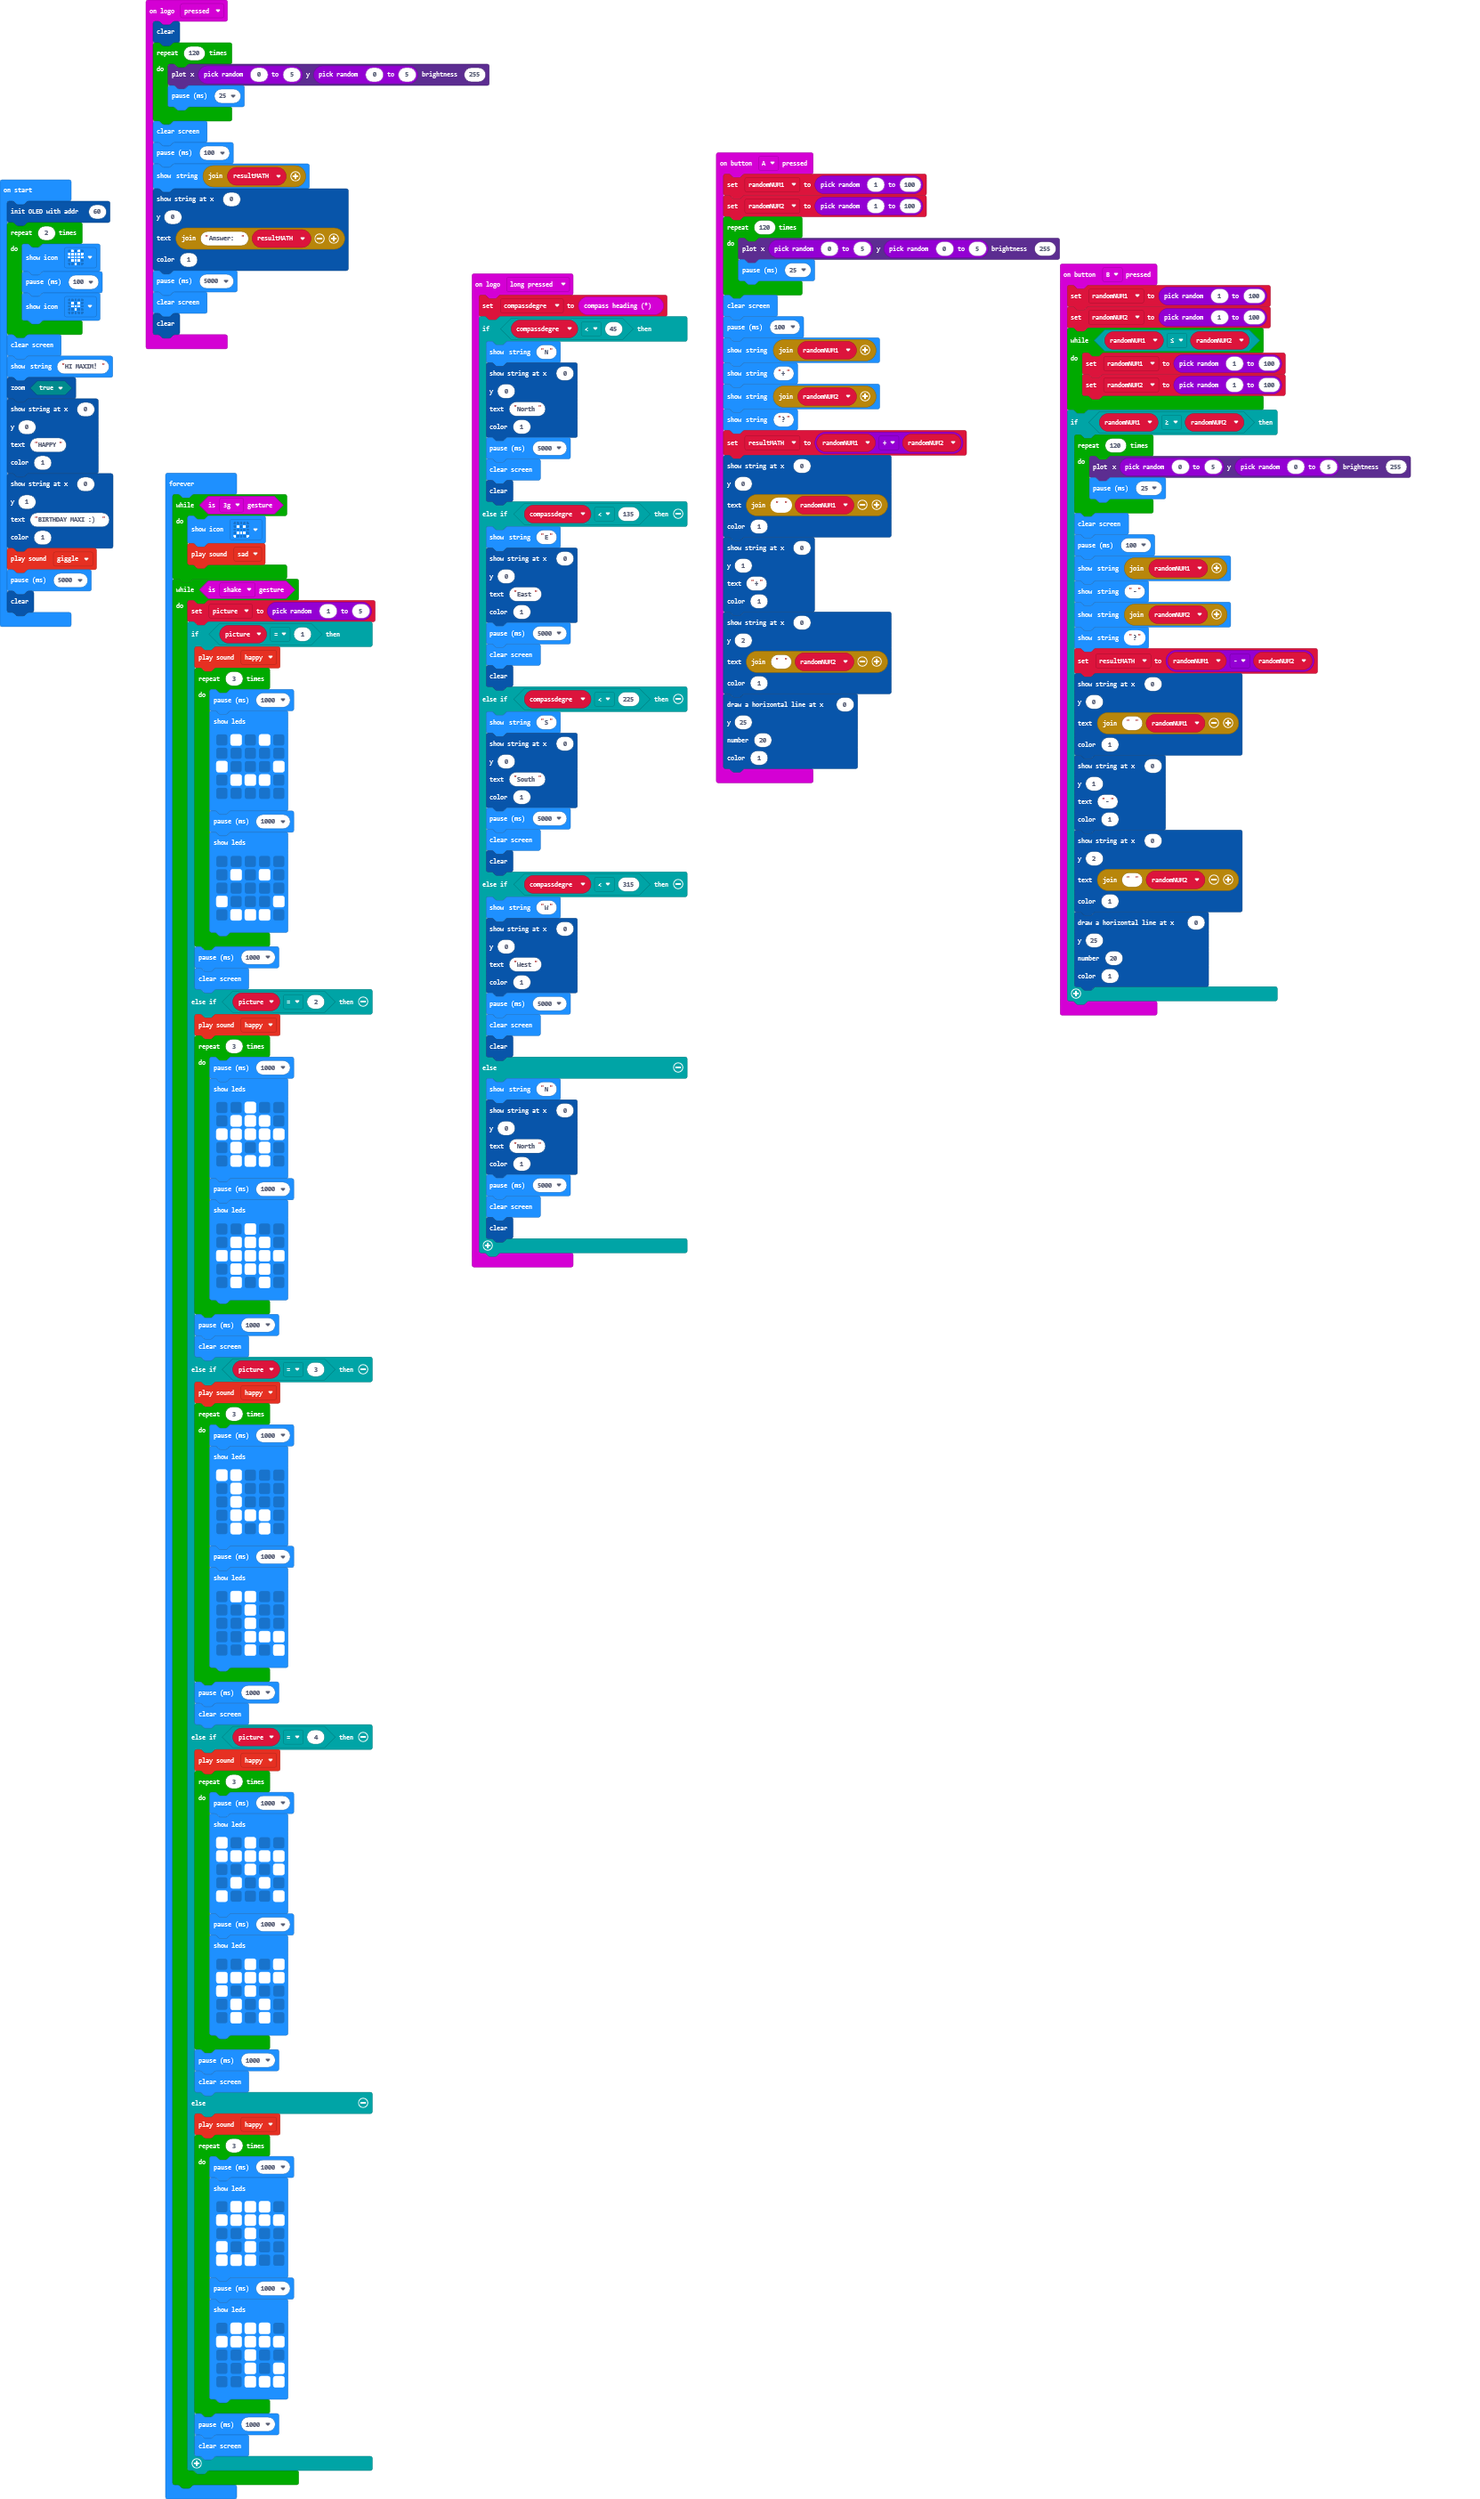
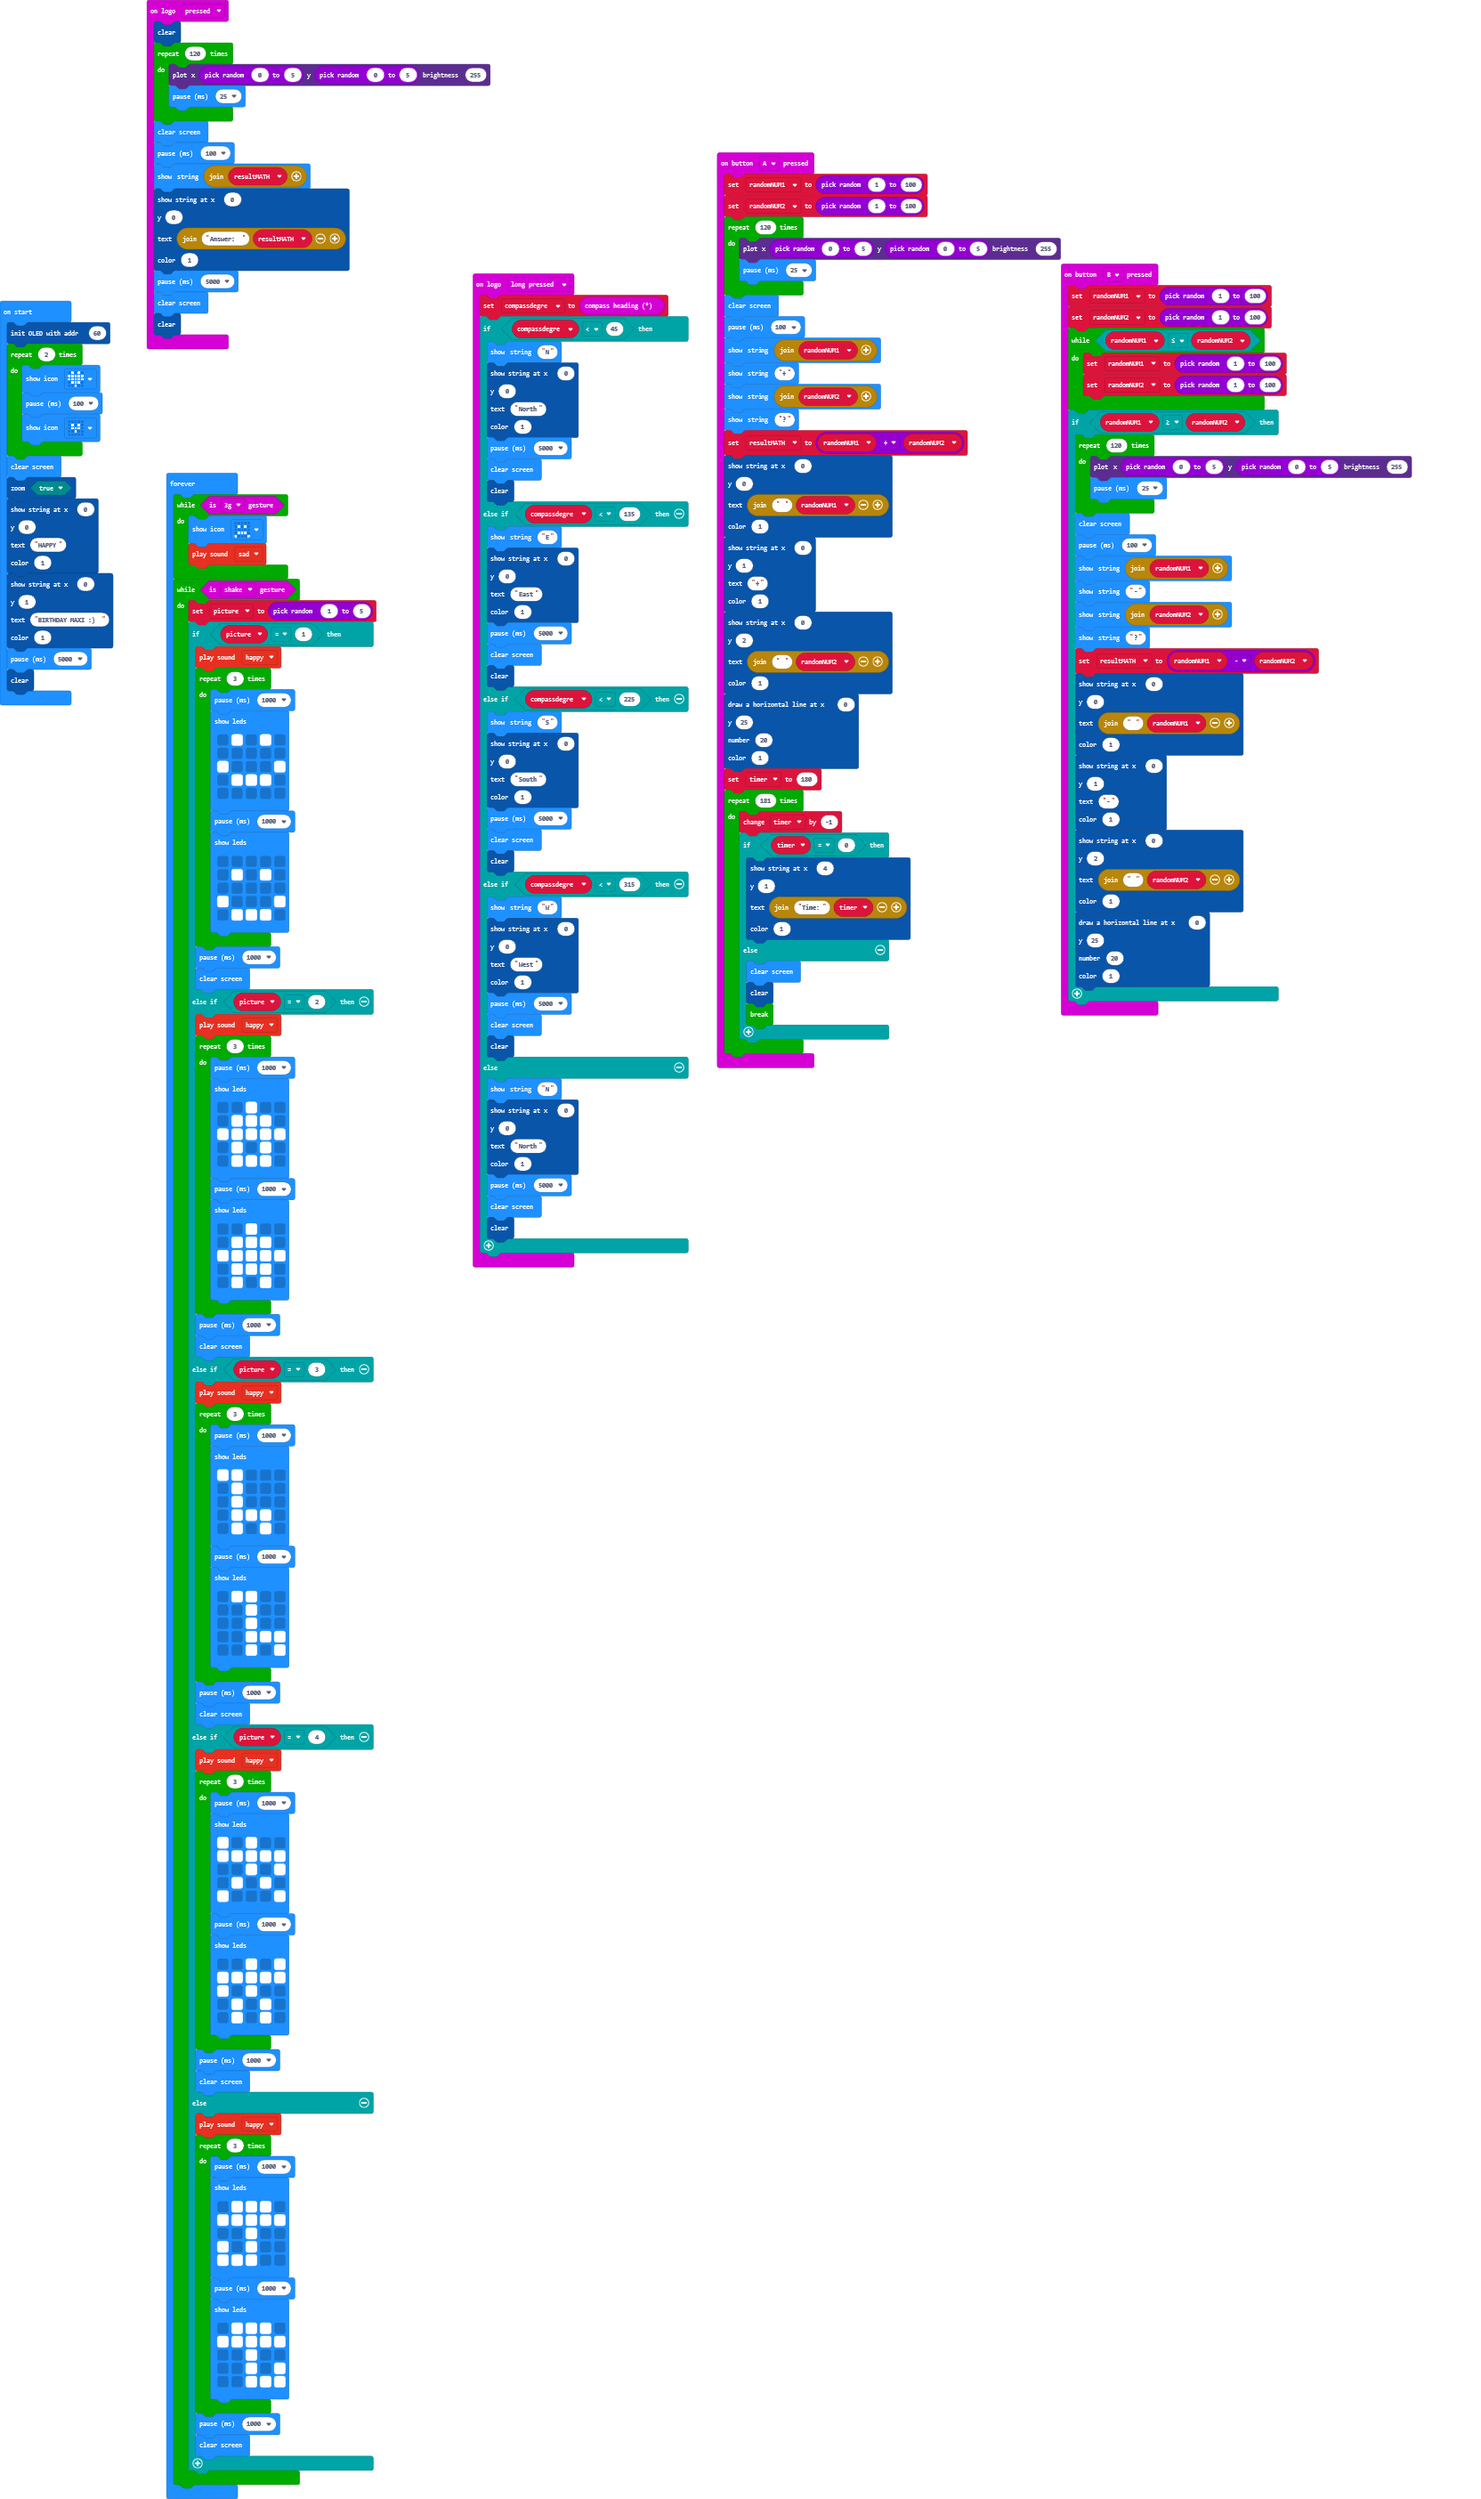
Update main.blocks, main.ts

diff --git a/main.ts b/main.ts
@@ -95,6 +95,22 @@ input.onButtonPressed(Button.A, function () {
     20,
     1
     )
+    timer = 180
+    for (let index = 0; index < 181; index++) {
+        timer += -1
+        if (timer == 0) {
+            OLED12864_I2C.showString(
+            4,
+            1,
+            "Time:" + timer,
+            1
+            )
+        } else {
+            basic.clearScreen()
+            OLED12864_I2C.clear()
+            break;
+        }
+    }
 })
 input.onButtonPressed(Button.B, function () {
     randomNUM1 = randint(1, 100)
@@ -161,6 +177,7 @@ input.onLogoEvent(TouchButtonEvent.Pressed, function () {
     OLED12864_I2C.clear()
 })
 let picture = 0
+let timer = 0
 let resultMATH = 0
 let randomNUM2 = 0
 let randomNUM1 = 0
@@ -172,7 +189,6 @@ for (let index = 0; index < 2; index++) {
     basic.showIcon(IconNames.SmallHeart)
 }
 basic.clearScreen()
-basic.showString("HI MAXIM!")
 OLED12864_I2C.zoom(true)
 OLED12864_I2C.showString(
 0,
@@ -186,7 +202,6 @@ OLED12864_I2C.showString(
 "BIRTHDAY MAXI :)",
 1
 )
-soundExpression.giggle.play()
 basic.pause(5000)
 OLED12864_I2C.clear()
 basic.forever(function () {
